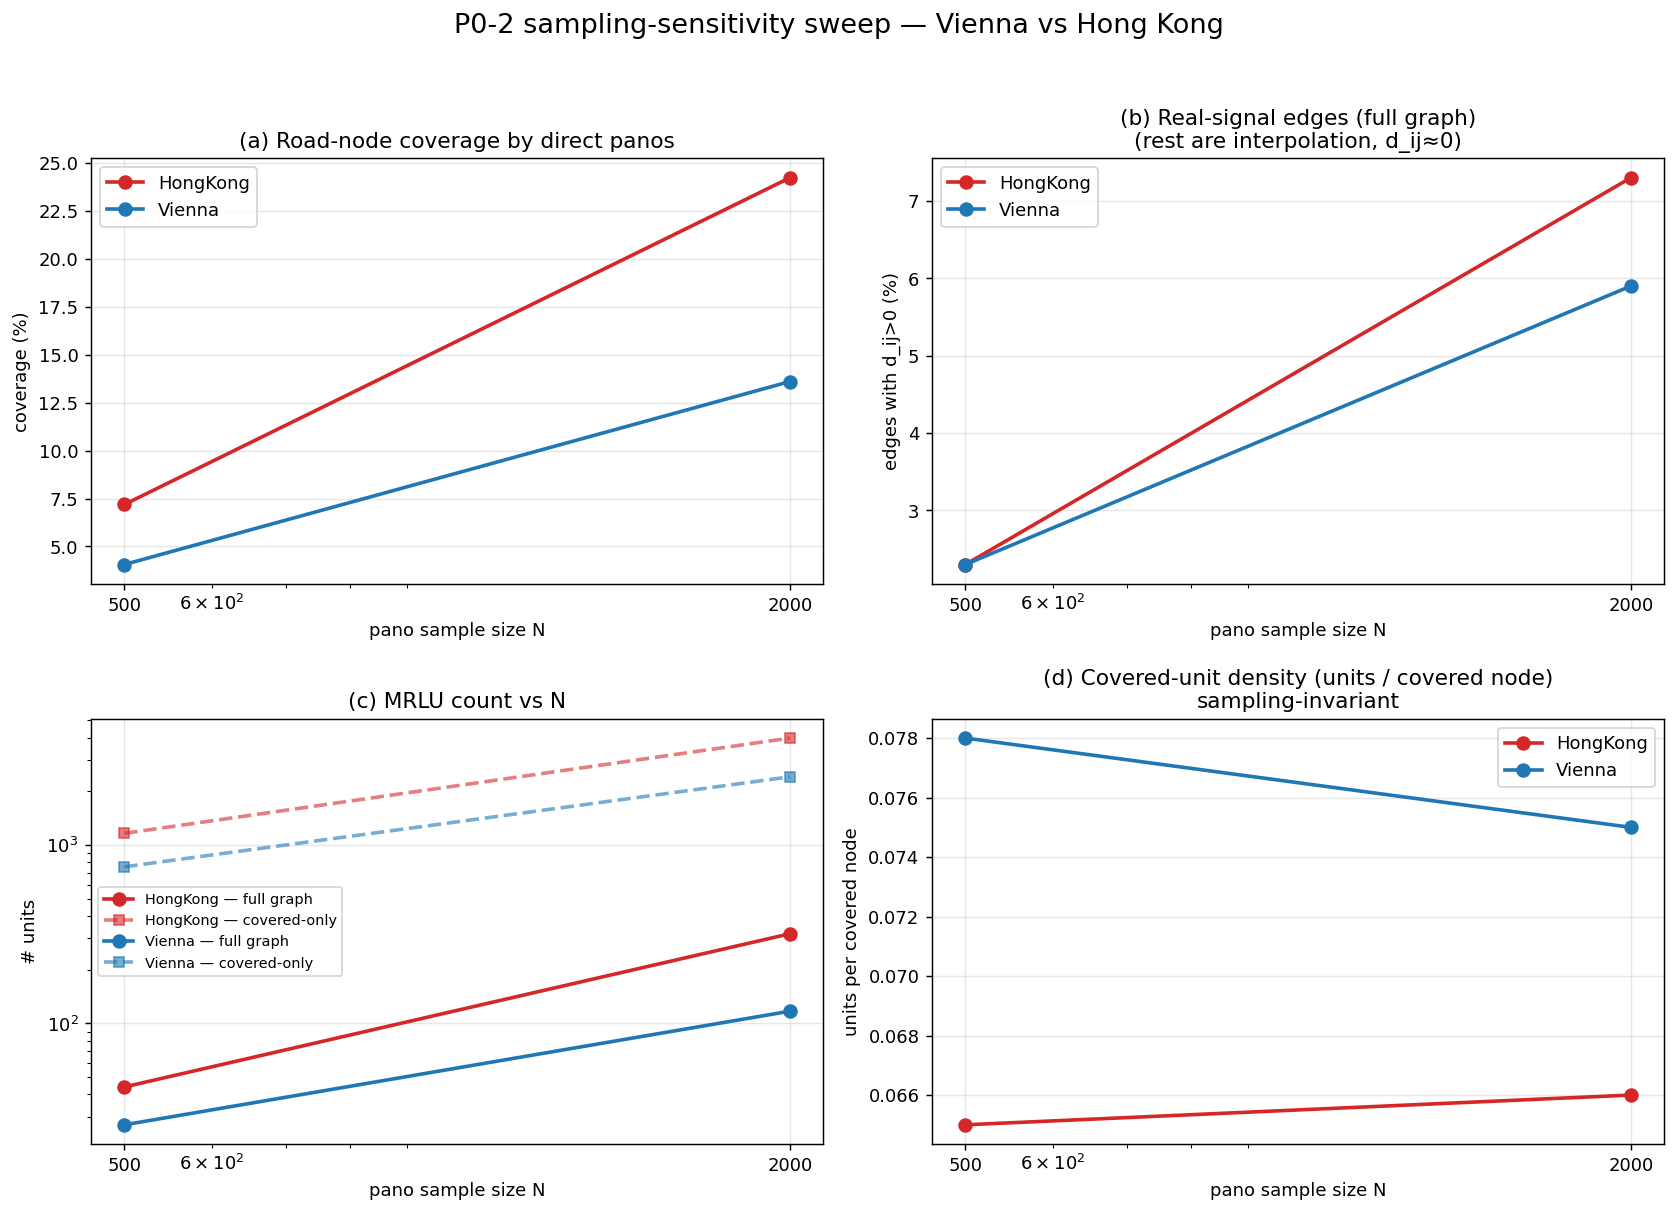
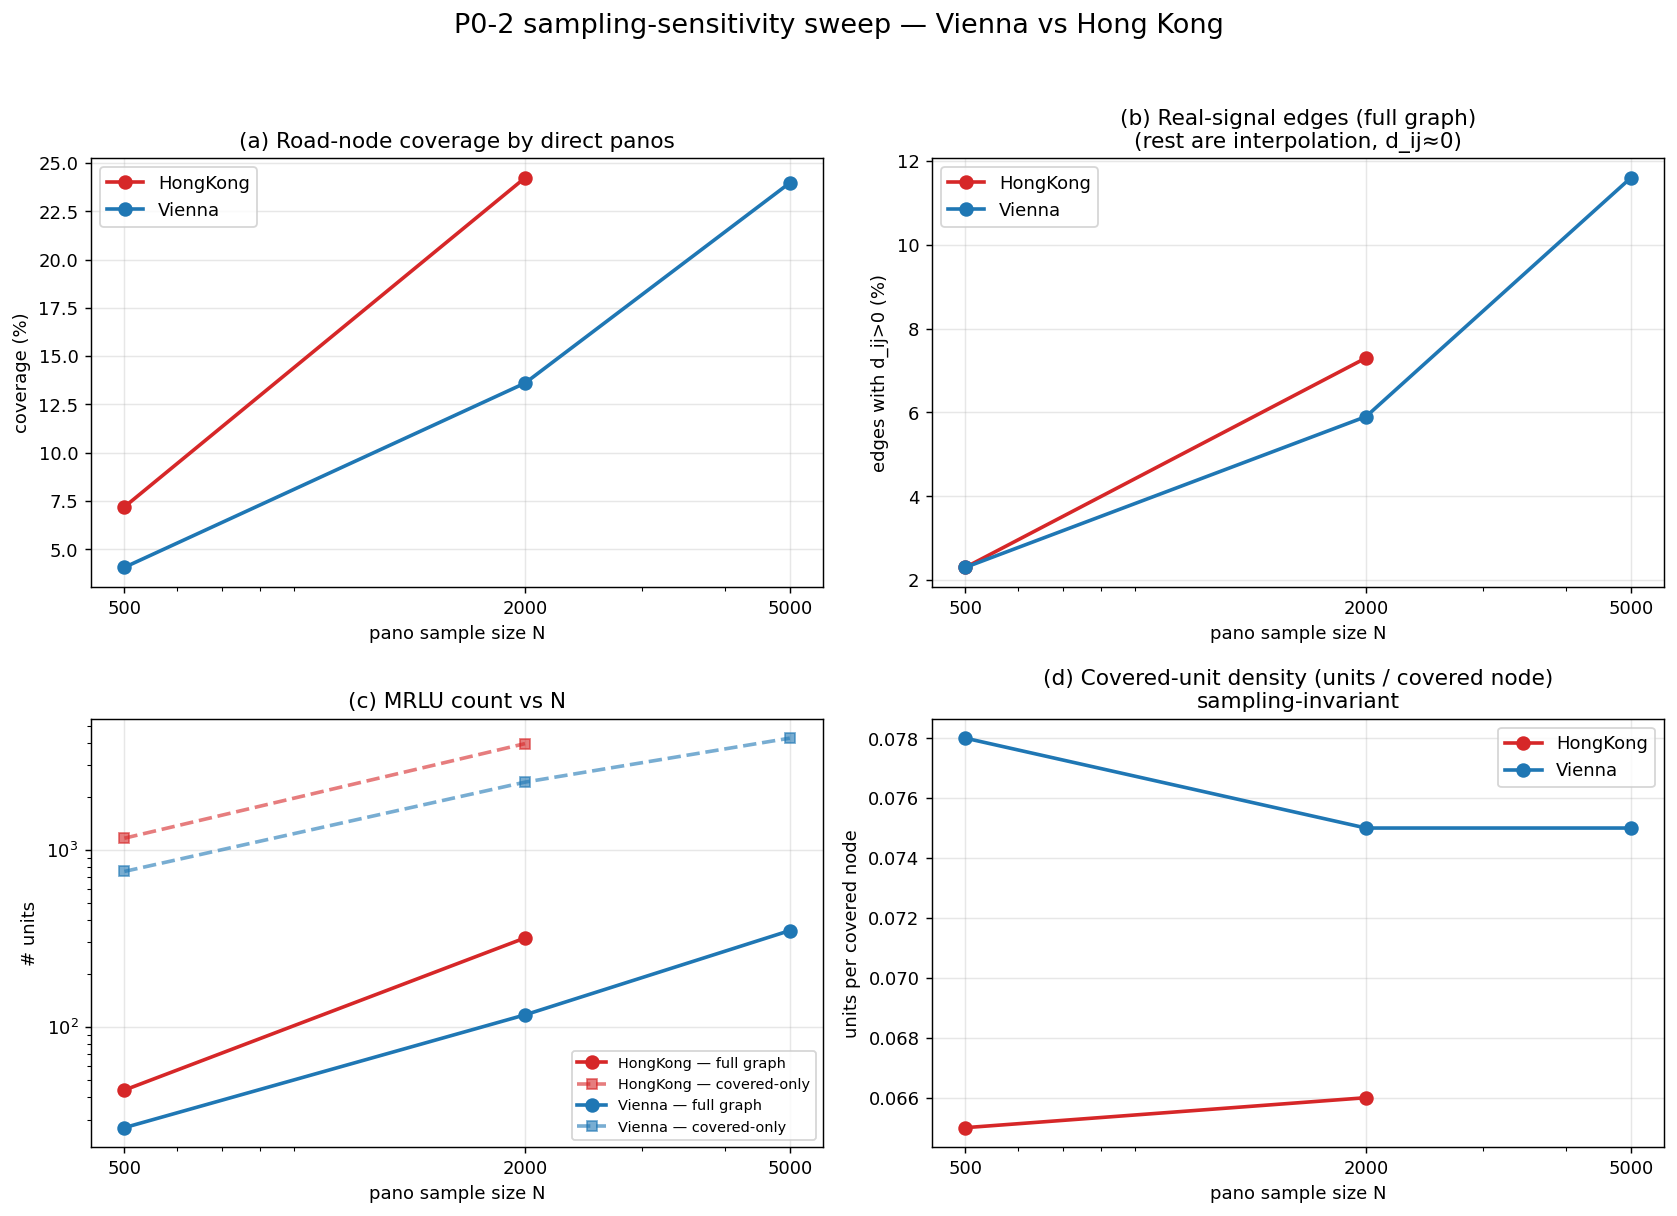
Add Vienna N=5000 sweep point: covered-unit density converges to 0.075
Three Vienna points (500/2000/5000) confirm the sampling-invariant: covered-unit
density 0.078->0.075->0.075. Real-signal edges still only 11.6% at N=5000, so
full-graph segmentation needs larger N. Figure + REPORT 5.6 updated.

diff --git a/REPORT.md b/REPORT.md
@@ -193,16 +193,15 @@ $$
 |---|--:|--:|--:|--:|--:|--:|
 | Vienna | 500 | 4.1% | 2.3% | 27 | 755 | 0.078 |
 | Vienna | 2000 | 13.6% | 5.9% | 117 | 2411 | 0.075 |
+| Vienna | 5000 | 24.0% | 11.6% | 350 | 4271 | **0.075** |
 | 香港 | 500 | 7.2% | 2.3% | 44 | 1163 | 0.065 |
 | 香港 | 2000 | 24.2% | 7.3% | 318 | 3977 | 0.066 |
 
 三点观察：
 
-1. **结果强烈受采样限制**：样本 4×，覆盖率约 3.4×、真信号边约 2.6×、全图单元 4–7×——所有绝对量随 $N$ 单调增长（图 a–c），说明小样本下的单元数并非城市的稳定属性。
-2. **全图分割仍被插值主导**：即便 $N=2000$，激活余弦距离非零的边仅占 6–7%（图 b），其余 90%+ 为插值复制（$d_{ij}\approx0$）。故应在覆盖子图上、而非插值全图上得出结论。
-3. **覆盖单元密度近似采样不变**：`覆盖单元 / 覆盖节点` 在两城内部跨 $N$ 基本恒定（Vienna ≈0.077、香港 ≈0.066，图 d），且两城取值不同——这是首个不随样本量漂移的描述量，宜作为**归一化的城市级指标**，替代易受采样影响的绝对单元数（亦回应"两城比较需标准化"的意见）。
-
-> 注：本节为评审 Major-2（数据规模）的定量回应；受本机环境对大样本的稳定性限制，$N=5000$ 仍在补算。
+1. **结果强烈受采样限制**：样本量增大时覆盖率、真信号边占比、全图/覆盖单元数均单调上升（图 a–c），说明小样本下的绝对单元数并非城市的稳定属性。
+2. **全图分割仍被插值主导**：即便 $N=5000$，激活余弦距离非零的边也仅占 11.6%（图 b），其余近 90% 为插值复制（$d_{ij}\approx0$）。故应在覆盖子图上、而非插值全图上得出结论；若要在全图上稳定，需进一步增大 $N$。
+3. **覆盖单元密度是采样不变量**：`覆盖单元 / 覆盖节点` 在 Vienna 跨 $N$ 收敛至 **0.075**（0.078→0.075→0.075），香港稳定在 ≈0.066，且两城取值不同——这是首个不随样本量漂移的描述量，宜作为**归一化的城市级指标**，替代易受采样影响的绝对单元数（亦回应"两城比较需标准化"的意见）。
 
 ---
 
